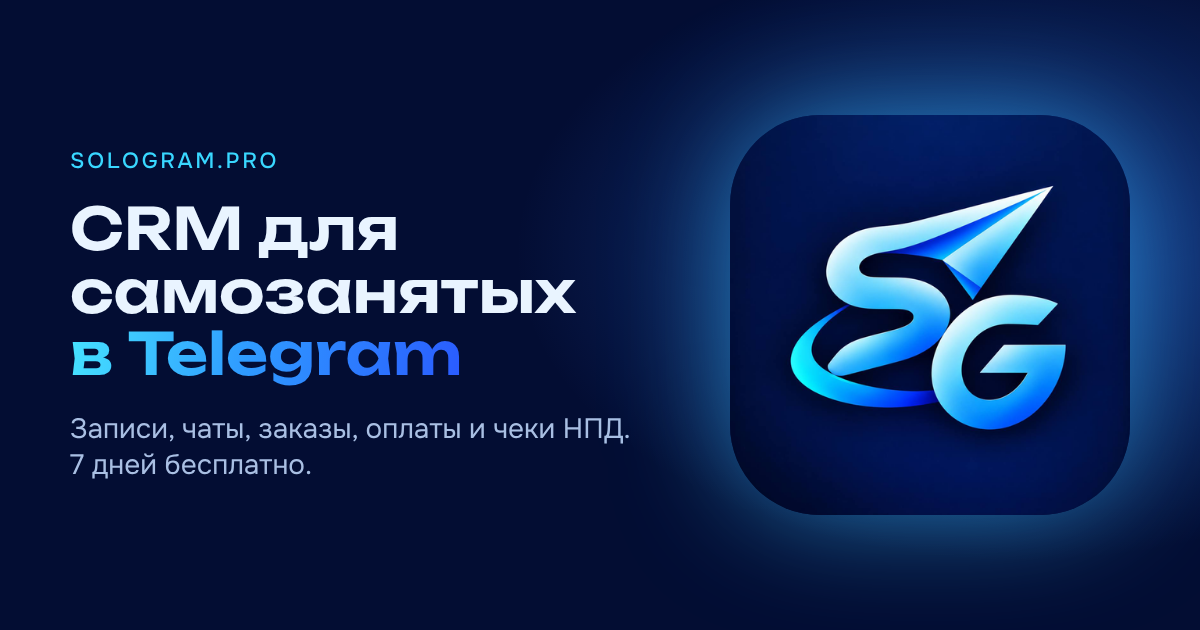
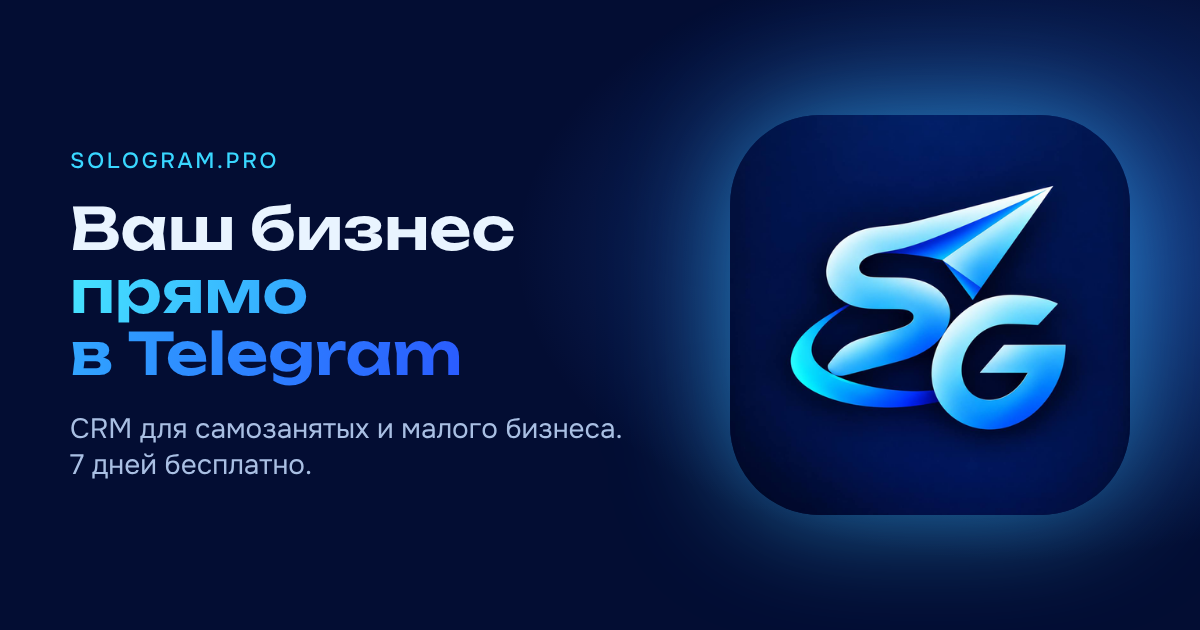
Use a headline that fits every kind of business
Claude-Session: https://claude.ai/code/session_01EnsKoUvRxCbwKZbYdCZWk6

Changed region(s): [[0.0617, 0.3016, 0.4933, 0.6032], [0.0617, 0.6635, 0.5242, 0.6937], [0.0617, 0.5429, 0.0925, 0.6032]]

diff --git a/index.html b/index.html
@@ -3,7 +3,7 @@
 <head>
 <meta charset="utf-8">
 <meta name="viewport" content="width=device-width, initial-scale=1, viewport-fit=cover">
-<title>Sologram — CRM для самозанятых прямо в Telegram</title>
+<title>Sologram — CRM для самозанятых и малого бизнеса в Telegram</title>
 <meta name="description" content="Записи клиентов, переписка, заказы, оплаты и напоминания о чеках НПД в одном Telegram-боте. Для самозанятых и небольшого бизнеса в Беларуси и России. 7 дней бесплатно.">
 <link rel="canonical" href="https://sologram.pro/">
 <meta name="theme-color" content="#030d33">
@@ -12,7 +12,7 @@
 <meta property="og:locale" content="ru_RU">
 <meta property="og:site_name" content="Sologram">
 <meta property="og:url" content="https://sologram.pro/">
-<meta property="og:title" content="Sologram — CRM для самозанятых прямо в Telegram">
+<meta property="og:title" content="Sologram — CRM для самозанятых и малого бизнеса в Telegram">
 <meta property="og:description" content="Записи, переписка с клиентами, заказы, оплаты и чеки НПД в одном боте. Ничего не нужно устанавливать. 7 дней бесплатно.">
 <meta property="og:image" content="https://sologram.pro/og.png">
 <meta property="og:image:width" content="1200">
@@ -260,9 +260,9 @@
   </svg>
   <div class="wrap">
     <div class="hero-copy">
-      <span class="eyebrow">CRM для самозанятых · Беларусь и Россия</span>
-      <h1>Клиенты, записи и оплаты <span class="grad">прямо в&nbsp;Telegram</span></h1>
-      <p class="lead">Сообщения клиентов, календарь, заказы, оплаты и напоминания о чеках собраны в одном боте. Ничего не нужно устанавливать, всё открывается в Telegram на телефоне и компьютере.</p>
+      <span class="eyebrow">CRM для самозанятых и малого бизнеса · Беларусь и Россия</span>
+      <h1>Ваш бизнес <span class="grad">прямо в&nbsp;Telegram</span></h1>
+      <p class="lead">Клиенты, переписка, заказы и оплаты в одном боте. Записи и календарь, сделки, аренда и напоминания о чеках подключаются под ваш вид деятельности. Ничего не нужно устанавливать.</p>
       <div class="cta-row">
         <a class="btn" id="hero-cta" href="https://t.me/sologram_crm_bot?start=site" data-goal="open_bot" rel="noopener">
           <svg viewBox="0 0 24 24" fill="currentColor" aria-hidden="true"><path d="M2.5 11.3l17.7-6.9c.8-.3 1.6.2 1.3 1.5l-3 14.2c-.2 1-.8 1.3-1.7.8l-4.6-3.4-2.2 2.1c-.3.3-.5.5-1 .5l.3-4.8 8.6-7.8c.4-.3-.1-.5-.6-.2L6.6 14 2 12.6c-1-.3-1-1 .5-1.3z"/></svg>
